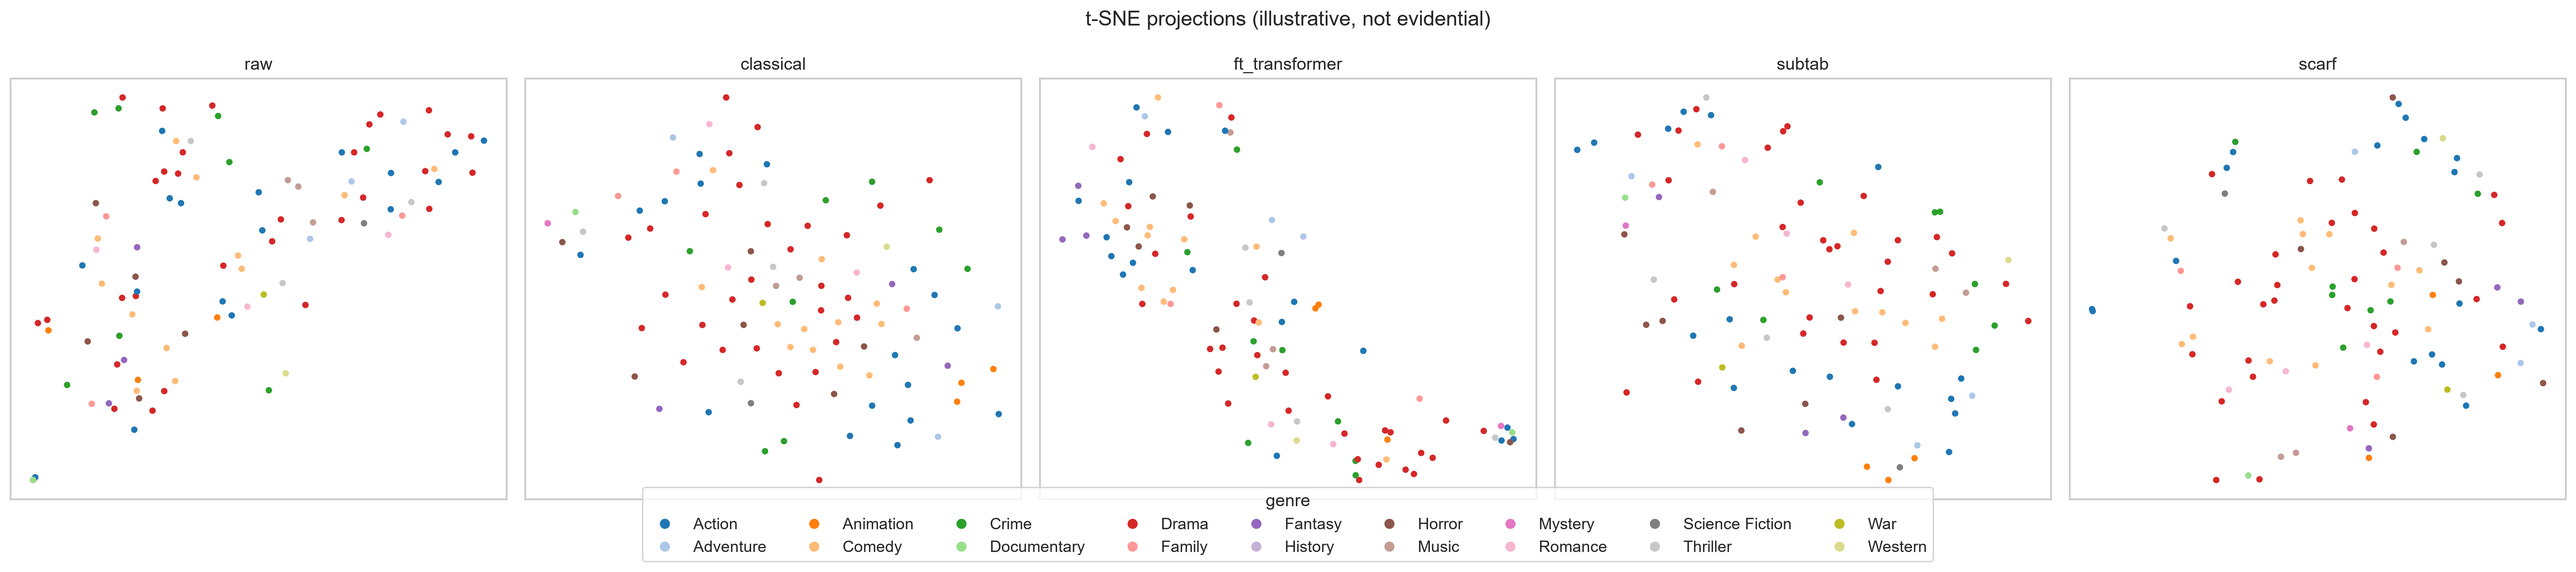
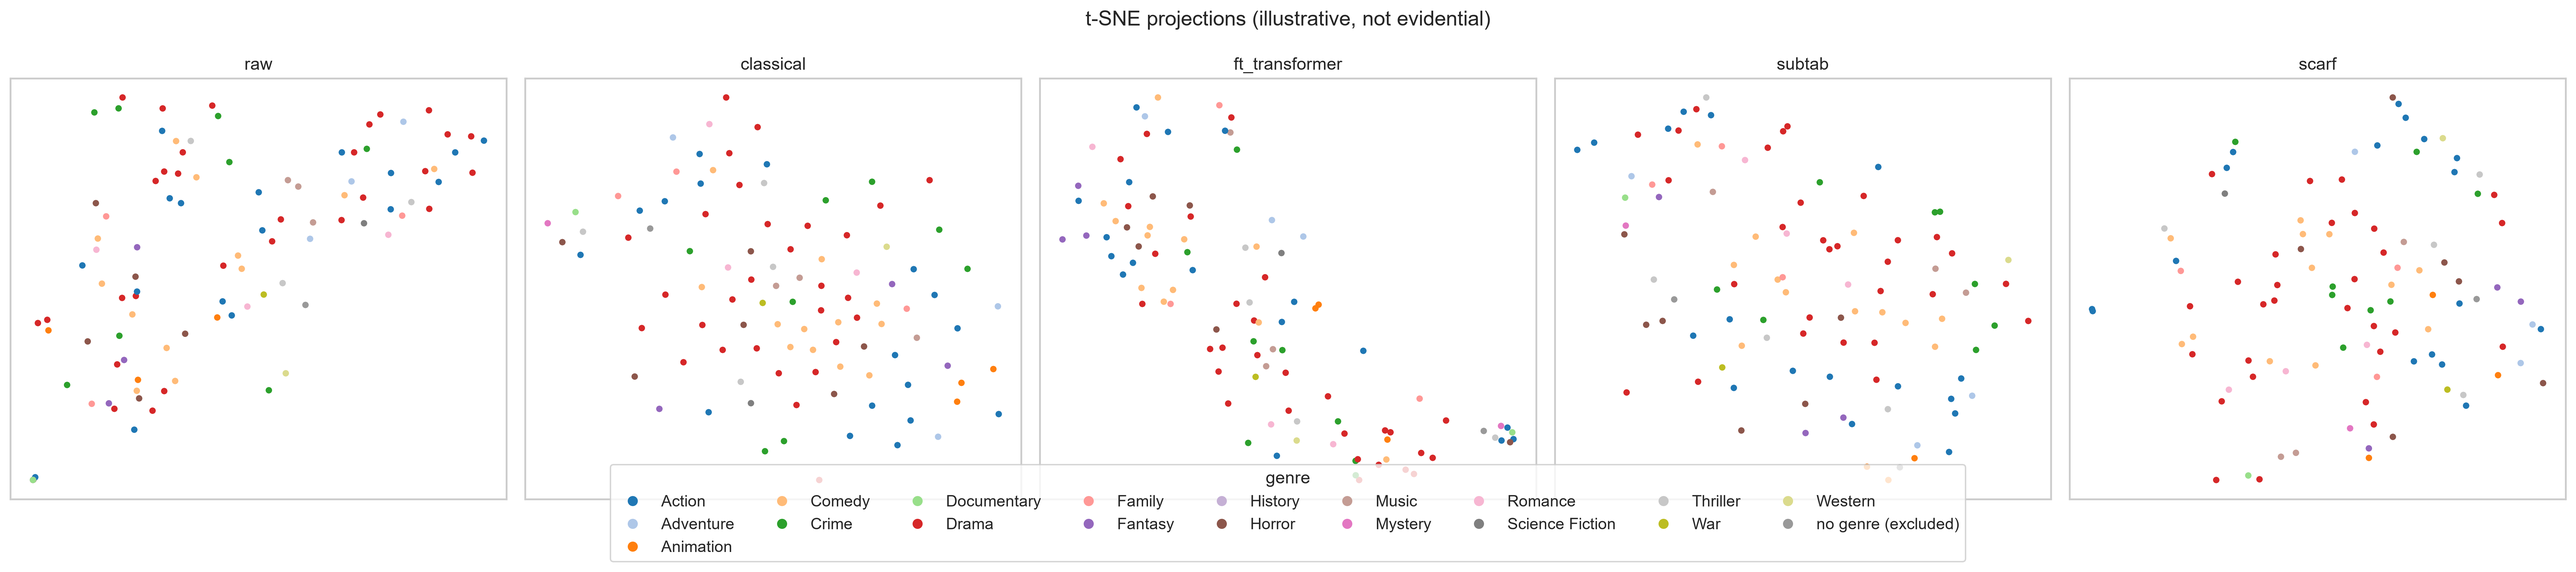
fix(evaluation): drop fabricated genre fallback, fix downstream fallout
- derive_genre_label returns labels + valid_mask instead of a fallback
- Mask clustering cells on valid_mask, print excluded count on Table 4.2
- Fix t-SNE grid NaN-vs-str crash from the removed fallback
- attribution_agreement returns spearman + overlap_at_10 on full summaries
- tradeoff.py pulls "spearman" for the "agreement" column
- Add raw standardisation diagnostic and y_lang test majority-class print

diff --git a/src/evaluation/eval_setup.py b/src/evaluation/eval_setup.py
@@ -16,7 +16,6 @@ from src import config
 from src.helper import load_representation_with_id
 
 REPR_NAMES = ("raw", "classical", "ft_transformer", "subtab", "scarf")
-FIT_SPLIT = "train"
 EVAL_SPLIT = "test"
 SENSITIVE_COL = "original_language"
 TARGET_COL = "vote_average"
@@ -130,36 +129,33 @@ def assert_row_alignment(
 
 
 def derive_genre_label(
-    candidate_splits: dict[str, pd.DataFrame], fit_split: str = FIT_SPLIT
-) -> dict[str, pd.Series]:
-    """Derives each row's genre label as genres[0]. Empty-list rows are
-    filled with the most frequent first-listed genre in fit_split alone
-    (never derived from val/test), so the fallback value is a fixed
-    constant reused across every split. Prints how many rows in each split
-    needed the fallback.
+    candidate_splits: dict[str, pd.DataFrame],
+) -> tuple[dict[str, pd.Series], dict[str, pd.Series]]:
+    """Derives each row's genre label as genres[0]. A row with an empty
+    genres list has no first genre to derive -- rather than fabricating
+    one, this returns two parallel dicts: labels[split] (genres[0] where
+    available, NaN elsewhere) and valid_mask[split] (True where
+    labels[split] is real). A caller using labels[split] as a clustering
+    label must first filter both the label and its matching feature rows
+    to valid_mask[split] -- e.g. X[mask], labels[split][mask] -- since
+    NaN is not a usable label. Prints how many rows in each split have no
+    first genre and are excluded.
     """
-    first_genre_by_split: dict[str, pd.Series] = {
-        split: df[GENRE_COL].apply(lambda genres: genres[0] if len(genres) > 0 else None)
-        for split, df in candidate_splits.items()
-    }
-
-    non_null_fit = first_genre_by_split[fit_split].dropna()
-    assert not non_null_fit.empty, (
-        f"fit_split={fit_split!r} has no rows with a non-empty genres list -- "
-        "cannot derive a fallback genre from it"
-    )
-    fallback_genre = non_null_fit.value_counts().idxmax()
-
     labels: dict[str, pd.Series] = {}
-    for split, first_genre in first_genre_by_split.items():
-        n_fallback = int(first_genre.isna().sum())
-        print(
-            f"derive_genre_label: {split}: {n_fallback} row(s) used the "
-            f"fallback genre {fallback_genre!r}"
-        )
-        labels[split] = first_genre.fillna(fallback_genre)
+    valid_mask: dict[str, pd.Series] = {}
 
-    return labels
+    for split, df in candidate_splits.items():
+        first_genre = df[GENRE_COL].apply(lambda genres: genres[0] if len(genres) > 0 else None)
+        mask = first_genre.notna()
+        n_excluded = int((~mask).sum())
+        print(
+            f"derive_genre_label: {split}: {n_excluded} row(s) have no first "
+            "genre and are excluded from clustering labels"
+        )
+        labels[split] = first_genre
+        valid_mask[split] = mask
+
+    return labels, valid_mask
 
 
 def drop_sensitive_attribute_columns(df: pd.DataFrame, representation: str) -> pd.DataFrame:

diff --git a/src/evaluation/interpretability.py b/src/evaluation/interpretability.py
@@ -85,24 +85,32 @@ def summarize_lime(lime_explanations: list, top_k: int = 10) -> pd.Series:
     return means.sort_values(ascending=False).head(top_k)
 
 
-def attribution_agreement(shap_summary: pd.Series, lime_summary: pd.Series, top_k: int = 10) -> float:
-    """Returns the Spearman correlation between shap_summary's and
-    lime_summary's feature rankings over the union of their top_k
-    features (a feature missing from one summary is treated as 0 there;
-    ties broken alphabetically). A single per-representation agreement
-    score for the Table 3.3 trade-off view -- it does not surface WHERE
-    the two methods disagree.
+def attribution_agreement(shap_summary: pd.Series, lime_summary: pd.Series) -> dict[str, float]:
+    """Returns {"spearman": ..., "overlap_at_10": ...} comparing the full
+    (untruncated) shap_summary/lime_summary Series -- callers should pass
+    everything summarize_shap/summarize_lime can produce, not a
+    pre-truncated top_k, so real values are compared rather than an
+    artificial rank structure.
+
+    "spearman" is scipy.stats.spearmanr's correlation computed directly
+    on the two summaries' own values, reindexed to the union of both
+    summaries' features; a feature absent from one summary is filled
+    with 0.0 there (genuinely missing, not a rank placeholder).
+    spearmanr handles tied values internally, so no manual tiebreak is
+    needed. "overlap_at_10" is the size of the intersection of the two
+    summaries' own top-10 feature sets (0-10) -- a plain feature-set
+    agreement, independent of value magnitude or rank.
+
+    A single per-representation agreement score for the Table 3.3
+    trade-off view -- it does not surface WHERE the two methods disagree.
     """
-    shap_top = shap_summary.head(top_k)
-    lime_top = lime_summary.head(top_k)
-    union = sorted(set(shap_top.index) | set(lime_top.index))
+    union = shap_summary.index.union(lime_summary.index)
+    shap_aligned = shap_summary.reindex(union).fillna(0.0)
+    lime_aligned = lime_summary.reindex(union).fillna(0.0)
+    spearman = spearmanr(shap_aligned, lime_aligned).correlation
 
-    def _ranks(summary: pd.Series) -> list[int]:
-        values = {f: summary.get(f, 0.0) for f in union}
-        order = sorted(union, key=lambda f: (-values[f], f))
-        rank_by_feature = {f: rank + 1 for rank, f in enumerate(order)}
-        return [rank_by_feature[f] for f in union]
+    shap_top10 = set(shap_summary.head(10).index)
+    lime_top10 = set(lime_summary.head(10).index)
+    overlap_at_10 = len(shap_top10 & lime_top10)
 
-    shap_ranks = _ranks(shap_top)
-    lime_ranks = _ranks(lime_top)
-    return spearmanr(shap_ranks, lime_ranks).correlation
+    return {"spearman": float(spearman), "overlap_at_10": overlap_at_10}

diff --git a/src/evaluation/tradeoff.py b/src/evaluation/tradeoff.py
@@ -18,7 +18,8 @@ def assemble_raw_table(
     """Combines one column from each source table into a single per-
     representation frame: silhouette, calinski_harabasz, davies_bouldin
     from clustering_table; agreement from interpretability_table's
-    attribution_agreement; delta_macro_f1 from fairness_table. Asserts all
+    "spearman" column (attribution_agreement's Spearman correlation, not
+    its overlap_at_10); delta_macro_f1 from fairness_table. Asserts all
     three inputs share the same row index/order first, so a column is
     never attributed to the wrong representation. fairness_table's NaN
     delta_macro_f1 for "raw" is replaced with 0.0 -- M(raw) - M(raw) = 0
@@ -42,7 +43,7 @@ def assemble_raw_table(
             "silhouette": clustering_table["silhouette"],
             "calinski_harabasz": clustering_table["calinski_harabasz"],
             "davies_bouldin": clustering_table["davies_bouldin"],
-            "agreement": interpretability_table["attribution_agreement"],
+            "agreement": interpretability_table["spearman"],
             "delta_macro_f1": fairness_table["delta_macro_f1"],
         },
         index=clustering_table.index,
